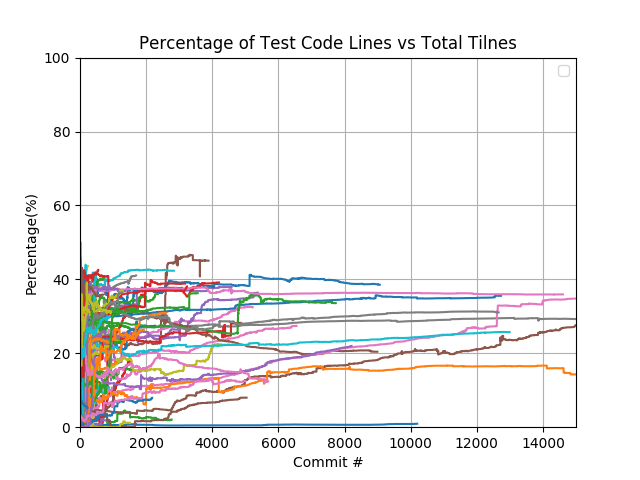
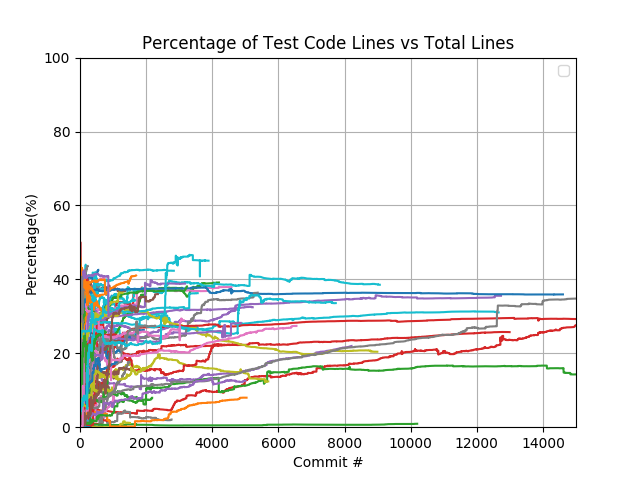
had weird titles for some graphs

Changed region(s): [[0.125, 0.5312, 0.9062, 0.9062], [0.2188, 0.0625, 0.8125, 0.125]]

diff --git a/ProportionOneGraphLines.py b/ProportionOneGraphLines.py
@@ -74,7 +74,7 @@ def makeGraph( fileType, i):
 
    
    
-    ax.set(xlabel="Commit #", ylabel="Percentage(%)", title="Percentage of Test Code Lines vs Total Tilnes")
+    ax.set(xlabel="Commit #", ylabel="Percentage(%)", title="Percentage of Test Code Lines vs Total Lines")
     ax.grid()
     plt.ylim(0, 100)
         # Ignore commits past a point
